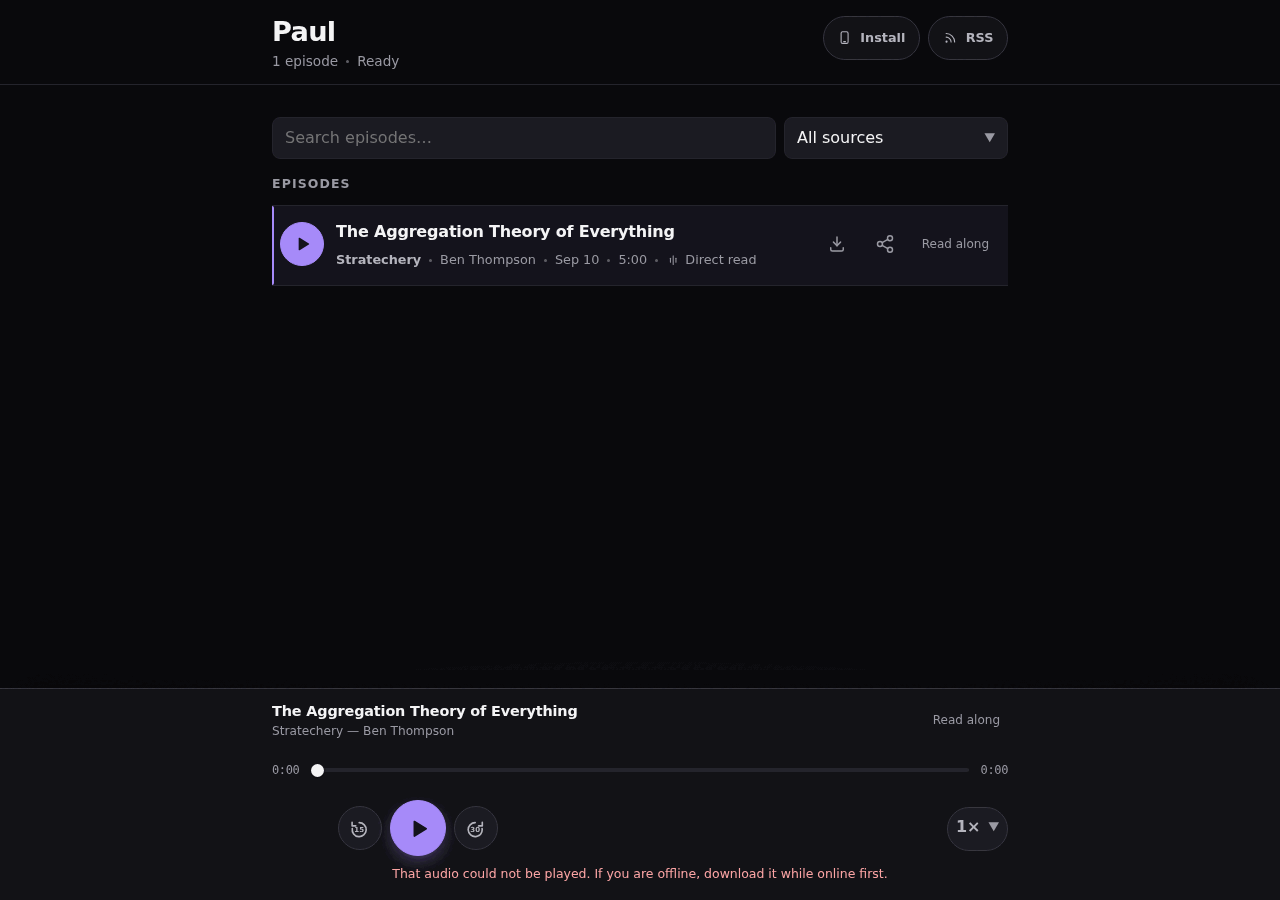
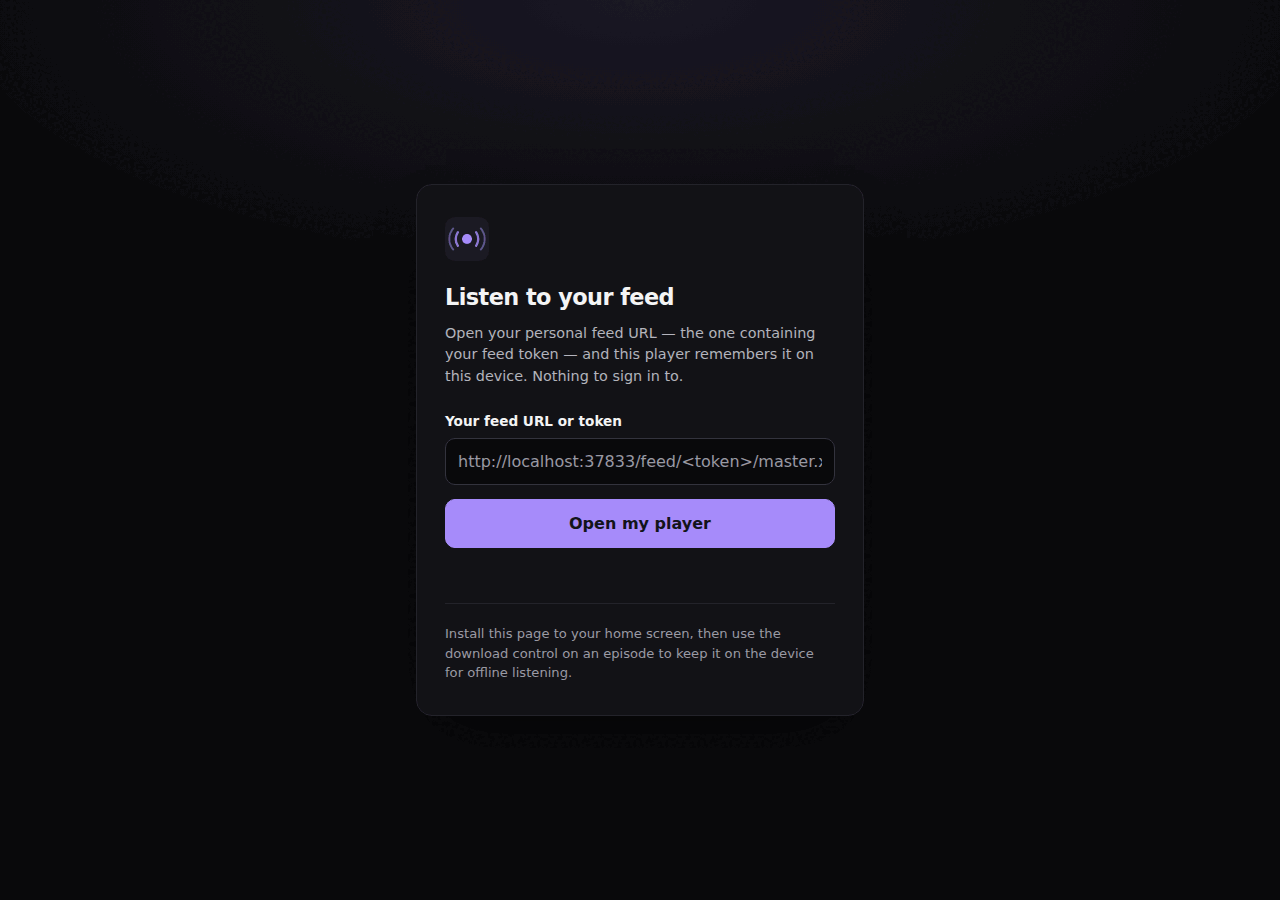
fix(evidence): the listen-landing proof row captured the player page it was redirected to (audio-feed-yyyjw)
GET /listen answers an approved session with a 302 to /listen/<token>
(src/app.ts, the PWA start_url), so the signed-in listen-landing row
captured the PLAYER document on every run - on main the committed
listen-landing and listen-player artefacts are the same bytes
(0c80f5e8...), one row proving the other's page. The runs where the two
artefacts differed were still two captures of the player, at different
client-settle moments - the intermittence that made this hard to see.

The row now drops the session cookie and restores it afterwards, the way
the home row has since audio-feed-38qar. The navigation wait additionally
requires the requested pathname (a readyState-only wait is also true of
the PREVIOUS document before a navigation commits), each listen row waits
for its own server-rendered landmark (#feedUrl; #episodes+#audio), and
each listen row asserts where it landed, so a wrong-document capture is a
RED instead of a green artefact of the wrong page.

Red-before (old cookie handling + old wait restored, new assertions kept):
FAIL  listen-landing: signed-out viewer landed on /listen  landed on /listen/token-syhu-user
(and, pathname gate alone vs the 302: Timeout waiting for: /listen loaded (complete and on /listen))

Release-note: none user-visible: internal (the syhu proof captures the signed-out listen landing instead of the player page it was redirected to).

diff --git a/scripts/csp-nonce-browser-proof.ts b/scripts/csp-nonce-browser-proof.ts
@@ -10,6 +10,17 @@
  * cookie, captures the page a visitor actually gets, and asserts it LANDED on `/`, so a future
  * change to the redirect reds the row instead of quietly changing what it proves.
  *
+ * THE LISTEN ROWS GOT THE SAME TREATMENT (audio-feed-yyyjw), and their wrong document was
+ * DETERMINISTIC, not intermittent: `GET /listen` answers an APPROVED session with a 302 to
+ * /listen/<token> (src/app.ts — the PWA start_url, audio-feed-b6nr), so the signed-in
+ * "listen-landing" row captured the PLAYER page every run. In the runs where the two listen
+ * artefacts were byte-identical, one row was proving the other's page; in the run where they
+ * differed, both were still the player at different client-settle moments. The landing row
+ * now captures signed-out (cookie dropped and restored, like home), the navigation wait
+ * requires the requested pathname (a readyState-only wait is also true of the PREVIOUS
+ * document before a navigation commits), each listen row waits for its own server-rendered
+ * landmark, and each asserts where it landed, so a wrong-document capture can no longer pass.
+ *
  * For each HTML surface it asserts, in headless Chrome with the CSP enforced:
  *   1. zero `securitypolicyviolation` events (nothing the page ships was blocked);
  *   2. zero console errors/warnings/exceptions;
@@ -204,16 +215,48 @@ await runProof("audio-feed-syhu", async (checker) => {
         ];
 
         for (const [name, path] of pages) {
-          // Signed-in `GET /` is a 303 to /account (audio-feed-irgu), so the home row drops the
-          // cookie first and takes it back afterwards: every later row is signed in, and home is
-          // the page a visitor is served rather than a second capture of /account.
-          if (name === "home") {
+          // Signed-in `GET /` is a 303 to /account (audio-feed-irgu) and signed-in `GET /listen`
+          // is a 302 to /listen/<token> (the PWA start_url, src/app.ts), so the home and
+          // listen-landing rows drop the cookie first and take it back afterwards: every later
+          // row is signed in again, and those two rows capture the pages a visitor WITHOUT a
+          // session actually gets rather than a second capture of the signed-in destination.
+          if (name === "home" || name === "listen-landing") {
             await cdp("Network.deleteCookies", { name: "__Host-af_session", url: BASE });
           }
           events.length = 0;
           await cdp("Page.navigate", { url: `${BASE}${path}` });
-          await until(`document.readyState === "complete"`, `${path} loaded`, UNTIL_HANG_BOUND_MS);
+          // audio-feed-yyyjw: readyState alone is already true of the PREVIOUS document before a
+          // navigation commits, so this wait could pass before the new page arrived and the
+          // capture below would screenshot the previous row's page. Requiring the requested
+          // pathname makes a pre-commit pass impossible: the old document has a different one —
+          // and it turns any future redirect of a row into a red timeout, never a silent
+          // change of surface.
+          await until(
+            `document.readyState === "complete" && location.pathname === ${JSON.stringify(path)}`,
+            `${path} loaded (complete and on ${path})`,
+            UNTIL_HANG_BOUND_MS,
+          );
           await sleep(250);
+
+          // audio-feed-yyyjw: a document-identifying landmark per listen row, on top of the
+          // pathname gate. The pathname proves the navigation committed; the landmark proves
+          // WHICH template the path served - if the two routes ever swapped content at these
+          // paths, pathname alone would not notice. Both landmarks are server-rendered, so
+          // waiting for them cannot depend on the page's client script.
+          if (name === "listen-landing") {
+            await until(
+              `document.getElementById("feedUrl") !== null`,
+              "listen landing restore form (#feedUrl)",
+              UNTIL_HANG_BOUND_MS,
+            );
+          }
+          if (name === "listen-player") {
+            await until(
+              `document.getElementById("episodes") !== null && document.getElementById("audio") !== null`,
+              "listen player episodes list and audio element",
+              UNTIL_HANG_BOUND_MS,
+            );
+          }
 
           const landed = await js(`location.pathname`) as string;
           const violations = await js(`JSON.stringify(window.__cspViolations ?? [])`) as string;
@@ -312,12 +355,33 @@ await runProof("audio-feed-syhu", async (checker) => {
             );
           }
 
+          // The two listen rows assert their own surfaces, the way the home row does
+          // (audio-feed-yyyjw): without a landed assertion the landing row proved the player
+          // page (signed-in 302) and the player row could prove a pre-commit document while
+          // green (see the header).
+          if (name === "listen-landing") {
+            check(
+              "listen-landing: signed-out viewer landed on /listen",
+              landed === "/listen",
+              `landed on ${landed}`,
+            );
+          }
+          if (name === "listen-player") {
+            const expectedPath = `/listen/${user.feedToken}`;
+            check(
+              "listen-player: landed on /listen/<feedToken>",
+              landed === expectedPath,
+              `landed on ${landed} (want ${expectedPath})`,
+            );
+          }
+
           const shot = (await cdp("Page.captureScreenshot", { format: "png" })) as { data: string };
           const raw = Uint8Array.from(atob(shot.data), (c) => c.charCodeAt(0));
           await Deno.writeFile(`${OUT}${name}-1280x900.png`, raw);
           await quantiseEvidencePng(`${OUT}${name}-1280x900.png`);
 
           if (name === "home") await signIn();
+          if (name === "listen-landing") await signIn();
         }
 
         await writeEvidenceReadme({
@@ -328,6 +392,8 @@ await runProof("audio-feed-syhu", async (checker) => {
           notes: [
             "home is captured SIGNED-OUT and asserts it landed on / (audio-feed-38qar): src/routes/home.ts:263-273 (audio-feed-irgu) 303-redirects a signed-in GET / to /account, so the row clears the session cookie first and restores it after the capture - before that the row captured the /account document byte for byte and its four checks duplicated the account ones",
             "what the row no longer does is silently follow a redirect: where a SIGNED-IN GET / lands is a separate contract this proof does not own, but where a signed-out one lands is asserted",
+            "listen-landing is captured SIGNED-OUT for the same reason (audio-feed-yyyjw): `GET /listen` 302s an approved session to /listen/<token> (src/app.ts, the PWA start_url), so the signed-in row captured the PLAYER page every run - the byte-identical listen artefacts were two captures of the same player document, one row proving the other's page",
+            "the navigation wait requires the requested pathname and the listen rows wait for their own server-rendered landmark (audio-feed-yyyjw): a readyState-only wait is also true of the PREVIOUS document before a navigation commits, and a pathname without a landmark cannot tell which template a path served",
           ],
           sections: [
             {

diff --git a/docs/evidence/audio-feed-syhu/README.md b/docs/evidence/audio-feed-syhu/README.md
@@ -1,8 +1,8 @@
 # audio-feed-syhu — drop 'unsafe-inline' from the HTML CSP
 
 - Script: scripts/csp-nonce-browser-proof.ts
-- Notes: home is captured SIGNED-OUT and asserts it landed on / (audio-feed-38qar): src/routes/home.ts:263-273 (audio-feed-irgu) 303-redirects a signed-in GET / to /account, so the row clears the session cookie first and restores it after the capture - before that the row captured the /account document byte for byte and its four checks duplicated the account ones; what the row no longer does is silently follow a redirect: where a SIGNED-IN GET / lands is a separate contract this proof does not own, but where a signed-out one lands is asserted
-- Asserts: home: zero CSP violations; home: no console errors/warnings; home: inline <style> applied (nonce accepted); home: inline classic script executed (tooltip client ran); home: signed-out viewer landed on /; login: zero CSP violations; login: no console errors/warnings; login: inline <style> applied (nonce accepted); login: inline classic script executed (tooltip client ran); admin: zero CSP violations; admin: no console errors/warnings; admin: inline <style> applied (nonce accepted); admin: inline classic script executed (tooltip client ran); admin: utility CSS wins the tie against the linked .card rule; listen-landing: zero CSP violations; listen-landing: no console errors/warnings; listen-player: zero CSP violations; listen-player: no console errors/warnings; account: zero CSP violations; account: no console errors/warnings; account: inline <style> applied (nonce accepted); account: inline classic script executed (tooltip client ran)
+- Notes: home is captured SIGNED-OUT and asserts it landed on / (audio-feed-38qar): src/routes/home.ts:263-273 (audio-feed-irgu) 303-redirects a signed-in GET / to /account, so the row clears the session cookie first and restores it after the capture - before that the row captured the /account document byte for byte and its four checks duplicated the account ones; what the row no longer does is silently follow a redirect: where a SIGNED-IN GET / lands is a separate contract this proof does not own, but where a signed-out one lands is asserted; listen-landing is captured SIGNED-OUT for the same reason (audio-feed-yyyjw): `GET /listen` 302s an approved session to /listen/<token> (src/app.ts, the PWA start_url), so the signed-in row captured the PLAYER page every run - the byte-identical listen artefacts were two captures of the same player document, one row proving the other's page; the navigation wait requires the requested pathname and the listen rows wait for their own server-rendered landmark (audio-feed-yyyjw): a readyState-only wait is also true of the PREVIOUS document before a navigation commits, and a pathname without a landmark cannot tell which template a path served
+- Asserts: home: zero CSP violations; home: no console errors/warnings; home: inline <style> applied (nonce accepted); home: inline classic script executed (tooltip client ran); home: signed-out viewer landed on /; login: zero CSP violations; login: no console errors/warnings; login: inline <style> applied (nonce accepted); login: inline classic script executed (tooltip client ran); admin: zero CSP violations; admin: no console errors/warnings; admin: inline <style> applied (nonce accepted); admin: inline classic script executed (tooltip client ran); admin: utility CSS wins the tie against the linked .card rule; listen-landing: zero CSP violations; listen-landing: no console errors/warnings; listen-landing: signed-out viewer landed on /listen; listen-player: zero CSP violations; listen-player: no console errors/warnings; listen-player: landed on /listen/<feedToken>; account: zero CSP violations; account: no console errors/warnings; account: inline <style> applied (nonce accepted); account: inline classic script executed (tooltip client ran)
 
 ## What changed
 
@@ -27,8 +27,10 @@ PASS  admin: inline classic script executed (tooltip client ran)  shown
 PASS  admin: utility CSS wins the tie against the linked .card rule  advisory card margin-block-end/start = 16px/24px (want 16px/24px)
 PASS  listen-landing: zero CSP violations  []
 PASS  listen-landing: no console errors/warnings  clean
+PASS  listen-landing: signed-out viewer landed on /listen  landed on /listen
 PASS  listen-player: zero CSP violations  []
 PASS  listen-player: no console errors/warnings  clean
+PASS  listen-player: landed on /listen/<feedToken>  landed on /listen/token-syhu-user (want /listen/token-syhu-user)
 PASS  account: zero CSP violations  []
 PASS  account: no console errors/warnings  clean
 PASS  account: inline <style> applied (nonce accepted)  u-mt-4 margin-block-start = 16px
